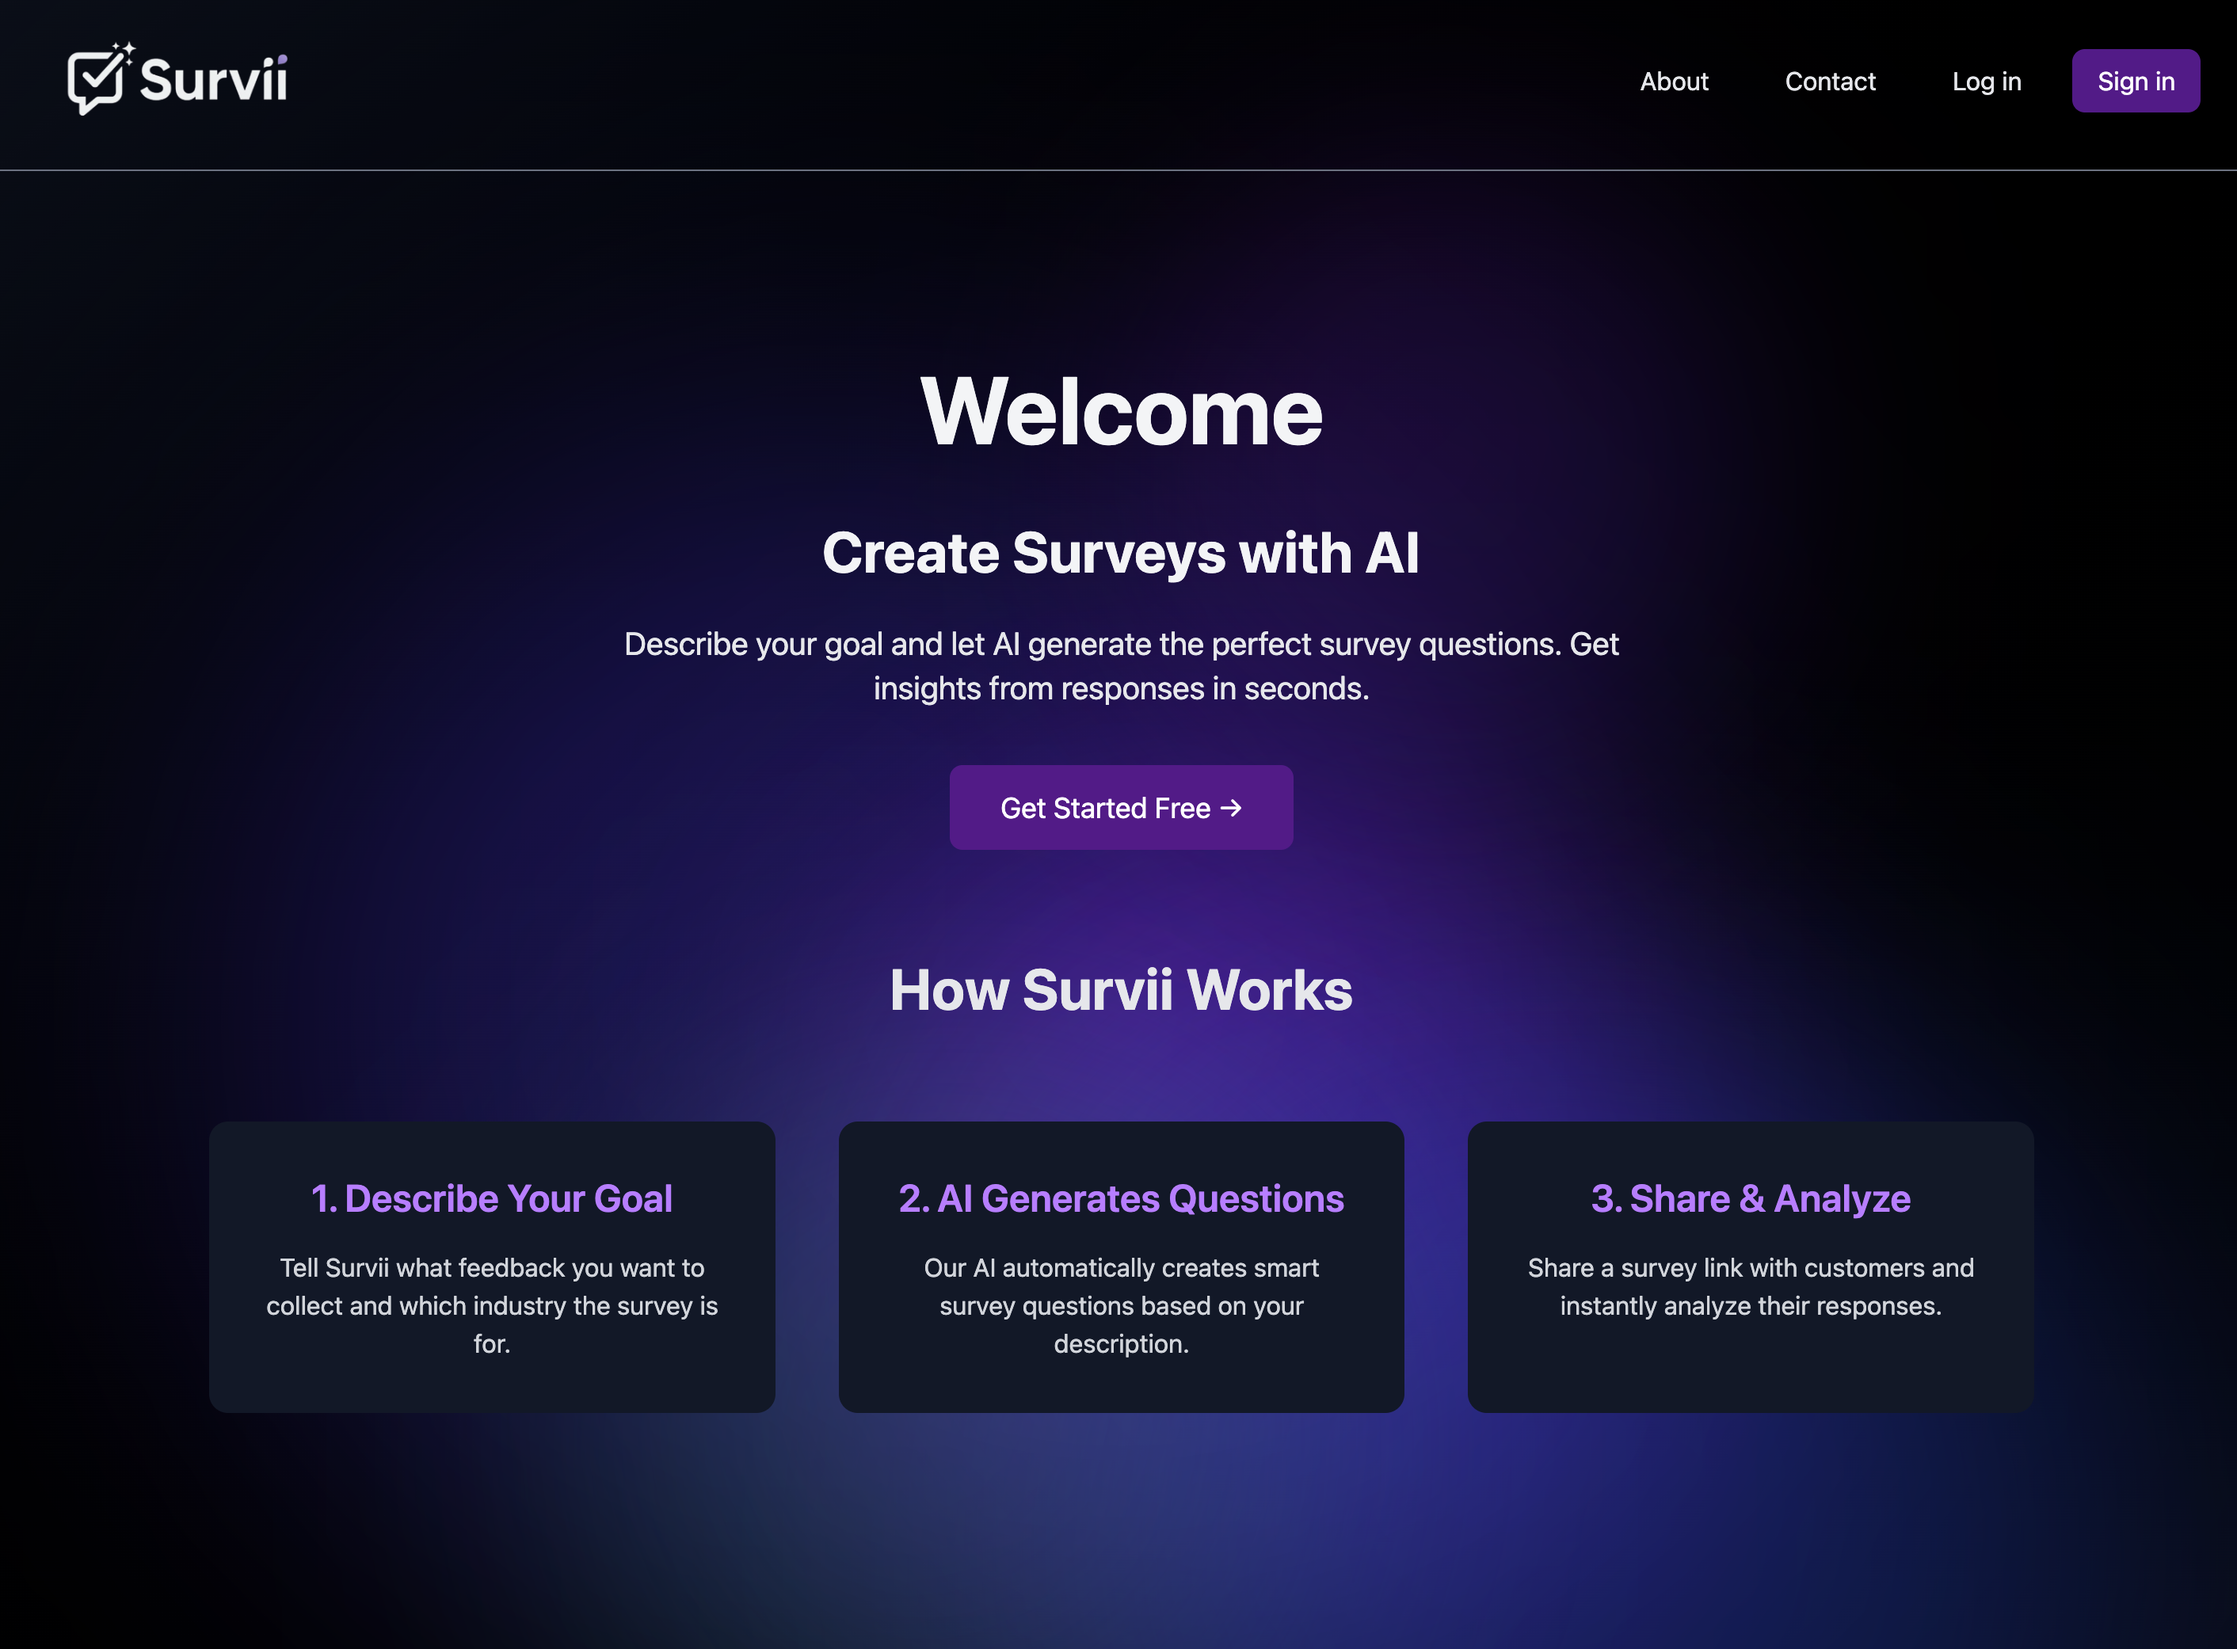
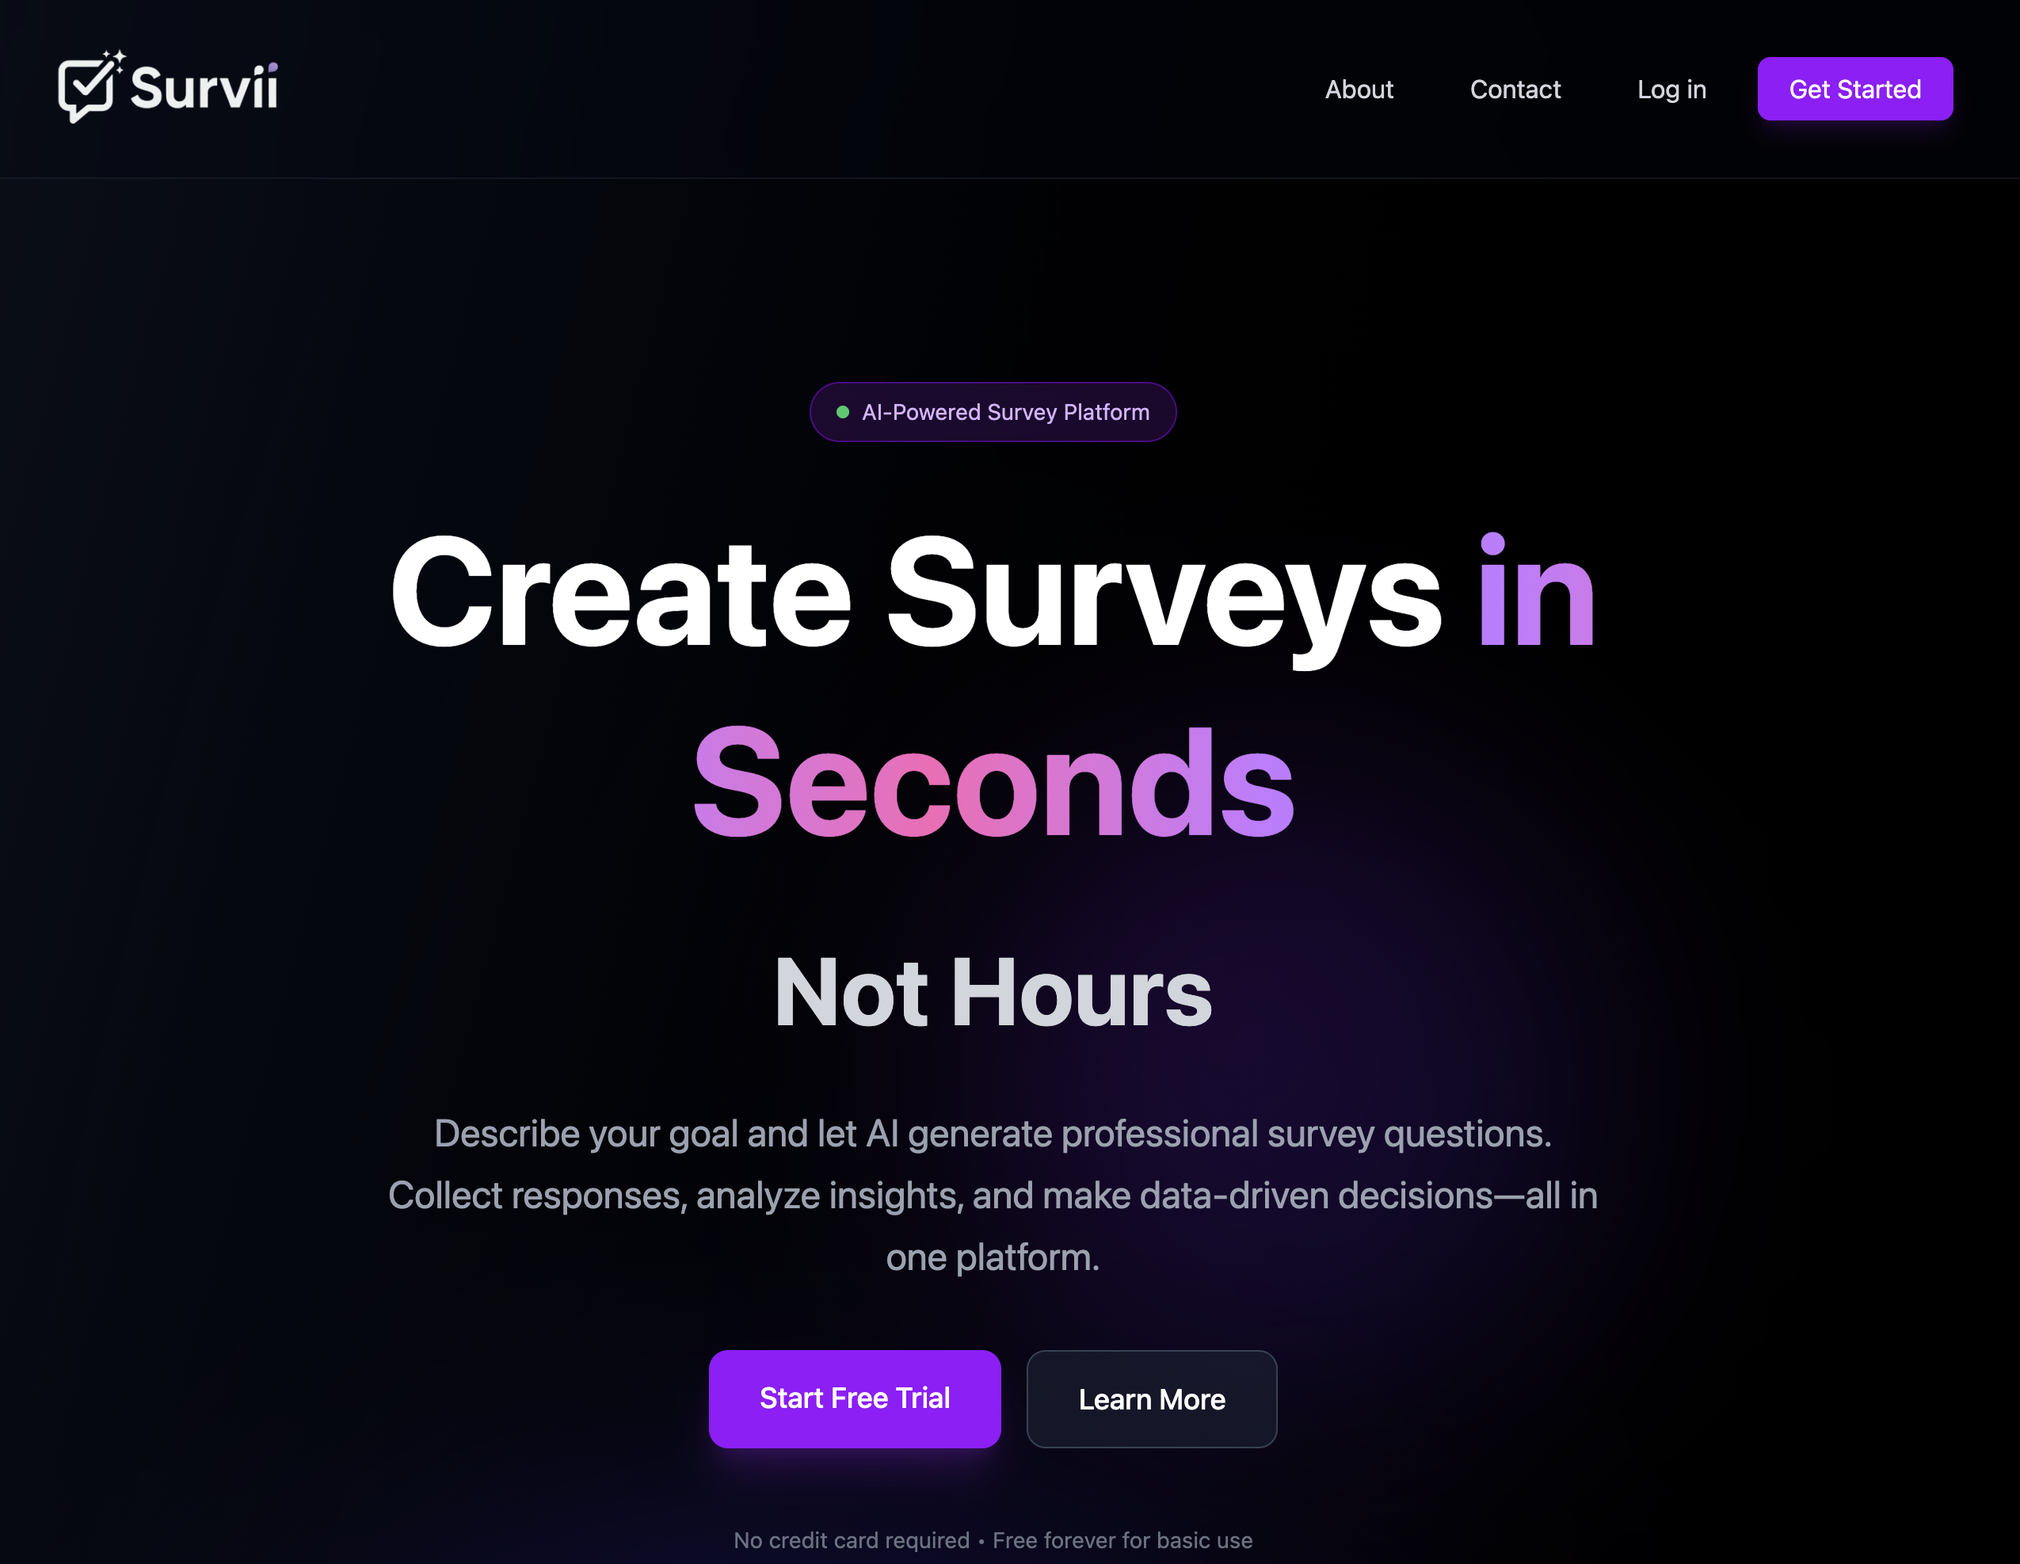
Refactor LandingPage styles: Rename class names for LuxeBite and InterAction titles to improve consistency

diff --git a/src/Pages/LandingPage.jsx b/src/Pages/LandingPage.jsx
@@ -163,7 +163,7 @@ const isLandingPage = location.pathname === "/";
               alt="LuxeBite project - UX/UI design case study"
             />
           </RouterLink>{" "}
-          <RouterLink to="/luxbite-project" className="luxbite-title">
+          <RouterLink to="/luxbite-project" className="luxbite-title-landing">
             <p>LuxeBite</p>
           </RouterLink>
         </div>
@@ -176,7 +176,7 @@ const isLandingPage = location.pathname === "/";
               alt="InterAction project - UX/UI design case study"
             />
           </RouterLink>
-          <RouterLink to="/interaction" className="interAction-title">
+          <RouterLink to="/interaction" className="interAction-title-landing">
             <p>InterAction</p>
           </RouterLink>
         </div>

diff --git a/src/Style/LandingPage.css b/src/Style/LandingPage.css
@@ -159,7 +159,7 @@
 .luxbite-img-landing:hover {
   transform: scale(1.1);
 }
-.luxbite-title {
+.luxbite-title-landing {
   text-decoration: none;
 }
 
@@ -241,7 +241,7 @@
   border-radius: 10px;
   transition: transform 0.3s cubic-bezier(0.075, 0.82, 0.165, 1);
 }
-.interAction-title {
+.interAction-title-landing {
   text-decoration: none;
 }
 .interAction-img:hover {
